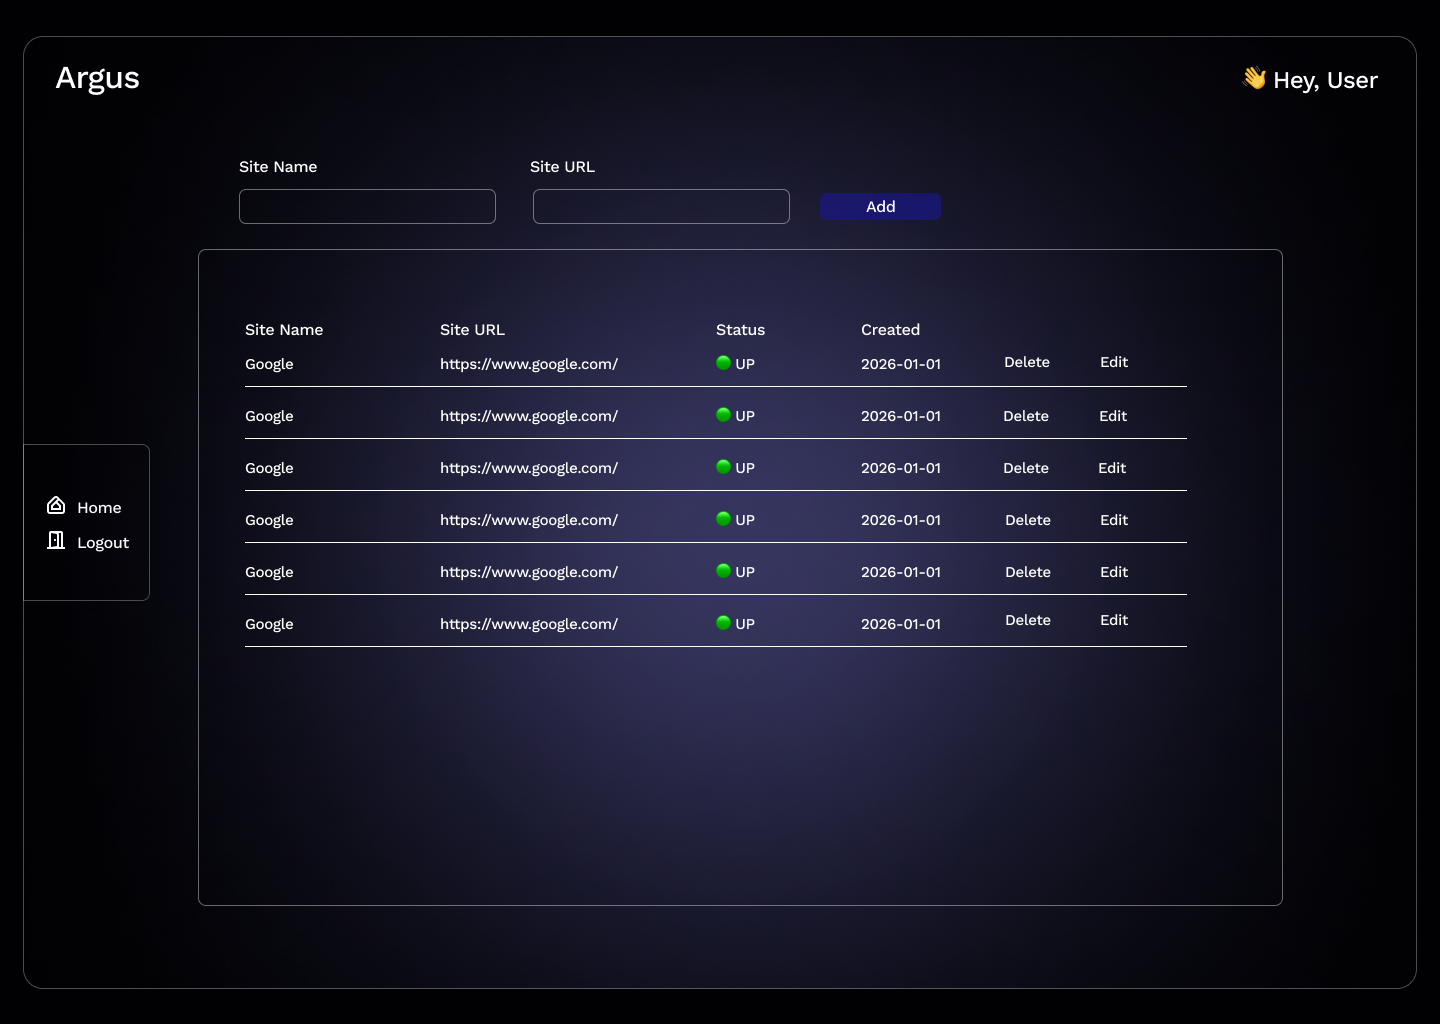
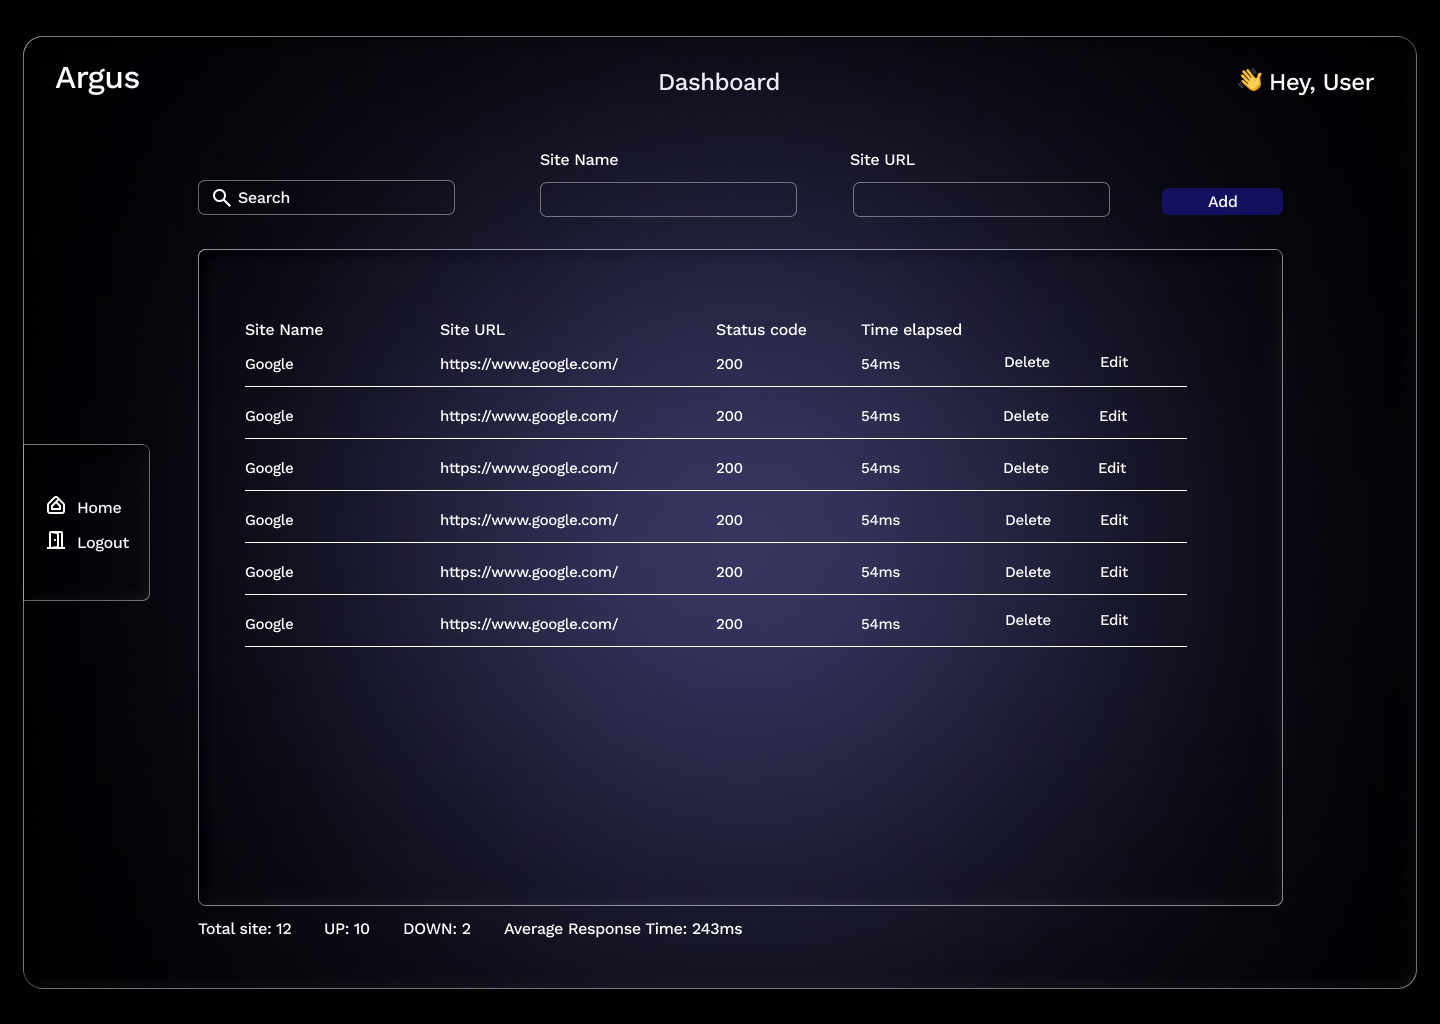
style: complete login, register and update page UI with Tailwind CSS

diff --git a/templates/login.html b/templates/login.html
@@ -1,20 +1,66 @@
 <!DOCTYPE html>
 <html lang="en">
+
 <head>
     <meta charset="UTF-8">
     <meta name="viewport" content="width=device-width, initial-scale=1.0">
-    <title>Argurs - Login</title>
+    <title>Argus - Login</title>
+    <link href="https://fonts.googleapis.com/css2?family=Space+Grotesk:wght@300;400;500;600;700&display=swap"
+        rel="stylesheet">
+    <script src="https://cdn.tailwindcss.com"></script>
 </head>
-<body>
-    <h1>Login</h1>
-    <form method="POST" action="/login">
-    <label for="email">Email :</label>
-    <input type="email" name="email" id="email" placeholder="Enter your Email">
-    <label for="password">Email :</label>
-    <input type="password" name="password" id="password" placeholder="Enter your Password">
-    <button type="submit">Submit</button>
-    </form>
-    <a href="/register">Register</a>
-    
+
+<body class="min-h-screen flex items-center justify-center bg-black font-['Space_Grotesk']">
+    <div
+        class="fixed bottom-0 right-0 w-[500px] h-[700px] bg-[#1A1894] opacity-60 blur-[80px] rotate-[-30deg] translate-x-32 translate-y-32 z-0">
+    </div>
+
+    <div
+        class="fixed bottom-0 right-0 w-[400px] h-[600px] bg-[#A8A5FE] opacity-60 blur-[80px] rotate-[-50deg] translate-x-48 translate-y-48 z-0">
+    </div>
+
+    <!-- Card -->
+    <div class="relative z-10 flex flex-col bg-[#1a1a1a] rounded-2xl p-10 w-[580px]">
+
+        <!-- Logo -->
+        <h1 class="text-white text-2xl font-bold">Argus</h1>
+        <p class="text-gray-400 text-sm mt-1 mb-8">Your silent API guardian.</p>
+
+        <!-- Heading -->
+        <h2 class="text-white text-xl font-semibold">Welcome Back!</h2>
+        <p class="text-white text-xl mb-8">Login to monitor your APIs.</p>
+
+        <!-- Form -->
+        <form method="POST" action="/login" class="flex flex-col">
+            <!-- Email -->
+            <div class="mb-4">
+                <label class="block text-white text-sm mb-2">Email</label>
+                <input type="email" name="email" placeholder="Enter your email"
+                    class="block w-full bg-[#2a2a2a] border border-[#3a3a3a] rounded-lg px-4 py-3 text-white outline-none focus:border-[#4B45C6] transition" required>
+            </div>
+
+            <!-- Password -->
+            <div class="mb-6">
+                <label class="block text-white text-sm mb-2">Password</label>
+                <input type="password" name="password" placeholder="Enter your password"
+                    class="block w-full bg-[#2a2a2a] border border-[#3a3a3a] rounded-lg px-4 py-3 text-white outline-none focus:border-[#4B45C6] transition" required >
+            </div>
+
+            <!-- Login Button -->
+            <button type="submit"
+                class="w-full bg-[#4B45C6] hover:bg-[#3d38a8] text-white font-semibold py-3 rounded-lg transition duration-300">
+                Login
+            </button>
+        </form>
+
+        <!-- Register link -->
+        <p class="text-gray-400 text-sm mt-6">
+            Don't have an account?
+            <a href="/register" class="text-[#7B76F0] hover:text-white transition">Register</a>
+        </p>
+
+    </div>
+
 </body>
+
 </html>

diff --git a/templates/register.html b/templates/register.html
@@ -1,19 +1,65 @@
 <!DOCTYPE html>
 <html lang="en">
+
 <head>
     <meta charset="UTF-8">
     <meta name="viewport" content="width=device-width, initial-scale=1.0">
-    <title>Argurs - Register</title>
+    <title>Argus - Register</title>
+    <link href="https://fonts.googleapis.com/css2?family=Space+Grotesk:wght@300;400;500;600;700&display=swap"
+        rel="stylesheet">
+    <script src="https://cdn.tailwindcss.com"></script>
 </head>
-<body>
-    <h1>Register</h1>
-    <form method="POST" action="/register">
-    <label for="email">Email :</label>
-    <input type="email" name="email" id="email" placeholder="Enter your Email">
-    <label for="password">Email :</label>
-    <input type="password" name="password" id="password" placeholder="Enter your Password">
-    <button type="submit">Submit</button>
-    </form>
-    <a href="/login">Login</a>
+
+<body class="min-h-screen flex items-center justify-center bg-black font-['Space_Grotesk']">
+    <div
+        class="fixed bottom-0 right-0 w-[500px] h-[700px] bg-[#1A1894] opacity-60 blur-[80px] rotate-[-30deg] translate-x-32 translate-y-32 z-0">
+    </div>
+
+    <div
+        class="fixed bottom-0 right-0 w-[400px] h-[600px] bg-[#A8A5FE] opacity-60 blur-[80px] rotate-[-50deg] translate-x-48 translate-y-48 z-0">
+    </div>
+
+    <!-- Card -->
+    <div class="relative z-10 flex flex-col bg-[#1a1a1a] rounded-2xl p-10 w-[580px]">
+
+        <!-- Logo -->
+        <h1 class="text-white text-2xl font-bold">Argus</h1>
+        <p class="text-gray-400 text-sm mt-1 mb-8">Your silent API guardian.</p>
+
+        <!-- Heading -->
+        <h2 class="text-white text-xl font-semibold">Start Monitoring Today</h2>
+        <p class="text-white text-xl mb-8">Set up your first endpoint in seconds.</p>
+
+        <!-- Form -->
+        <form method="POST" action="/register" class="flex flex-col">
+            <!-- Email -->
+            <div class="mb-4">
+                <label class="block text-white text-sm mb-2">Email</label>
+                <input type="email" name="email" placeholder="Enter your email"
+                    class="block w-full bg-[#2a2a2a] border border-[#3a3a3a] rounded-lg px-4 py-3 text-white outline-none focus:border-[#4B45C6] transition" required>
+            </div>
+
+            <!-- Password -->
+            <div class="mb-6">
+                <label class="block text-white text-sm mb-2">Password</label>
+                <input type="password" name="password" placeholder="Enter your password"
+                    class="block w-full bg-[#2a2a2a] border border-[#3a3a3a] rounded-lg px-4 py-3 text-white outline-none focus:border-[#4B45C6] transition" minlength="6" required>
+            </div>
+
+            <button type="submit"
+                class="w-full bg-[#4B45C6] hover:bg-[#3d38a8] text-white font-semibold py-3 rounded-lg transition duration-300">
+                Register
+            </button>
+        </form>
+
+        <!-- Register link -->
+        <p class="text-gray-400 text-sm mt-6">
+            Don't have an account?
+            <a href="/login" class="text-[#7B76F0] hover:text-white transition">Login</a>
+        </p>
+
+    </div>
+
 </body>
+
 </html>

diff --git a/templates/update.html b/templates/update.html
@@ -1,19 +1,60 @@
 <!DOCTYPE html>
 <html lang="en">
+
 <head>
     <meta charset="UTF-8">
     <meta name="viewport" content="width=device-width, initial-scale=1.0">
-    <title>Argurs - Update section</title>
+    <title>Argus - Update</title>
+    <link href="https://fonts.googleapis.com/css2?family=Space+Grotesk:wght@300;400;500;600;700&display=swap"
+        rel="stylesheet">
+    <script src="https://cdn.tailwindcss.com"></script>
 </head>
-<body>
-    <h1>Update Section</h1>
-    <form method="POST" action="/update/{{ endpoint.id }}">
-        <label>Site Name:</label>
-        <input type="text" name="name" value="{{ endpoint.name }}" placeholder="Site name">
-        <label>Site URL:</label>
-        <input type="url" name="url" value="{{ endpoint.url }}" placeholder="Site URL">
-        <button type="submit">Update</button>
-    </form>
+
+<body class="min-h-screen flex items-center justify-center bg-black font-['Space_Grotesk']">
+    <div
+        class="fixed bottom-0 right-0 w-[500px] h-[700px] bg-[#1A1894] opacity-60 blur-[80px] rotate-[-30deg] translate-x-32 translate-y-32 z-0">
+    </div>
+
+    <div
+        class="fixed bottom-0 right-0 w-[400px] h-[600px] bg-[#A8A5FE] opacity-60 blur-[80px] rotate-[-50deg] translate-x-48 translate-y-48 z-0">
+    </div>
+
+    <!-- Card -->
+    <div class="relative z-10 flex flex-col bg-[#1a1a1a] rounded-2xl p-10 w-[580px]">
+
+        <!-- Logo -->
+        <h1 class="text-white text-2xl font-bold">Argus</h1>
+        <p class="text-gray-400 text-sm mt-1 mb-8">Your silent API guardian.</p>
+
+        <!-- Heading -->
+        <h2 class="text-white text-xl font-semibold mb-2">Update Enpoints.</h2>
+
+        <!-- Form -->
+        <form method="POST" action="/update/{{ endpoint.id }}" class="flex flex-col">
+            <div class="mb-4">
+                <label class="block text-white text-sm mb-2">Site Name</label>
+                <input type="name" name="name" value="{{ endpoint.name }}"
+                    class="block w-full bg-[#2a2a2a] border border-[#3a3a3a] rounded-lg px-4 py-3 text-white outline-none focus:border-[#4B45C6] transition">
+            </div>
+
+            <div class="mb-6">
+                <label class="block text-white text-sm mb-2">Site URL</label>
+                <input type="url" name="url" value="{{ endpoint.url }}"
+                    class="block w-full bg-[#2a2a2a] border border-[#3a3a3a] rounded-lg px-4 py-3 text-white outline-none focus:border-[#4B45C6] transition">
+            </div>
+
+            <button type="submit"
+                class="w-full bg-[#4B45C6] hover:bg-[#3d38a8] text-white font-semibold py-3 rounded-lg transition duration-300">
+                <a href="/dashboard">Update</a>
+            </button>
+            <button type="submit"
+                class="w-full bg-[#4B45C6] hover:bg-[#3d38a8] text-white font-semibold py-3 rounded-lg transition duration-300 mt-4"><a href="/dashboard">Cancel</a>
+            </button>
+        </form>
+
+
+    </div>
 
 </body>
+
 </html>